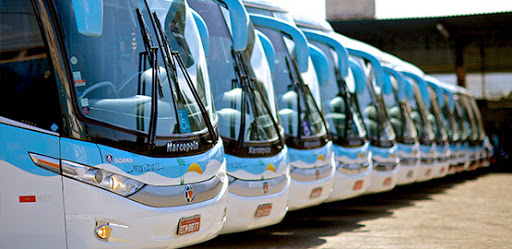
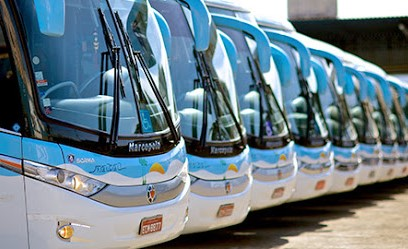
alterado tamanho da caixa de busca e altura da imagem

diff --git a/css_paginas internas.css b/css_paginas internas.css
@@ -51,7 +51,7 @@ header .logo img {
 } 
 
 #txtBusca{
-  height: 15px;
+  height: 20px;
   margin-left: 5px;
   width: 200px;
 }
@@ -82,9 +82,6 @@ nav ul li a {
   font-family: Verdana, Geneva, Tahoma, sans-serif;
 }
 
-
-
-
 /* conteudo página internas */
 .conteudointernas{
   padding: 10px;
@@ -114,11 +111,13 @@ nav ul li a {
 
 .imagemsecaointerna {
   margin-left: 10px;
+  margin-top: 50px;
   width: 35%;
 }
 
 .imagemsecaointerna img {
-  width: 250px;
+  width: 100%;
+
 }
 
 @media (max-width: 1000px) {

diff --git a/quem_somos.html b/quem_somos.html
@@ -18,7 +18,7 @@
               <li><a href="sou_mais_rio.html">Home</a></li>
               <li><a href="quem_somos.html">Quem Somos</a></li>
               <li><a href="servicos.html">Serviços</a></li>
-              <li><a href="">Contato</a></li>
+              <li><a href="contato.html">Contato</a></li>
             </ul>
           </nav>
           <div class="busca">
